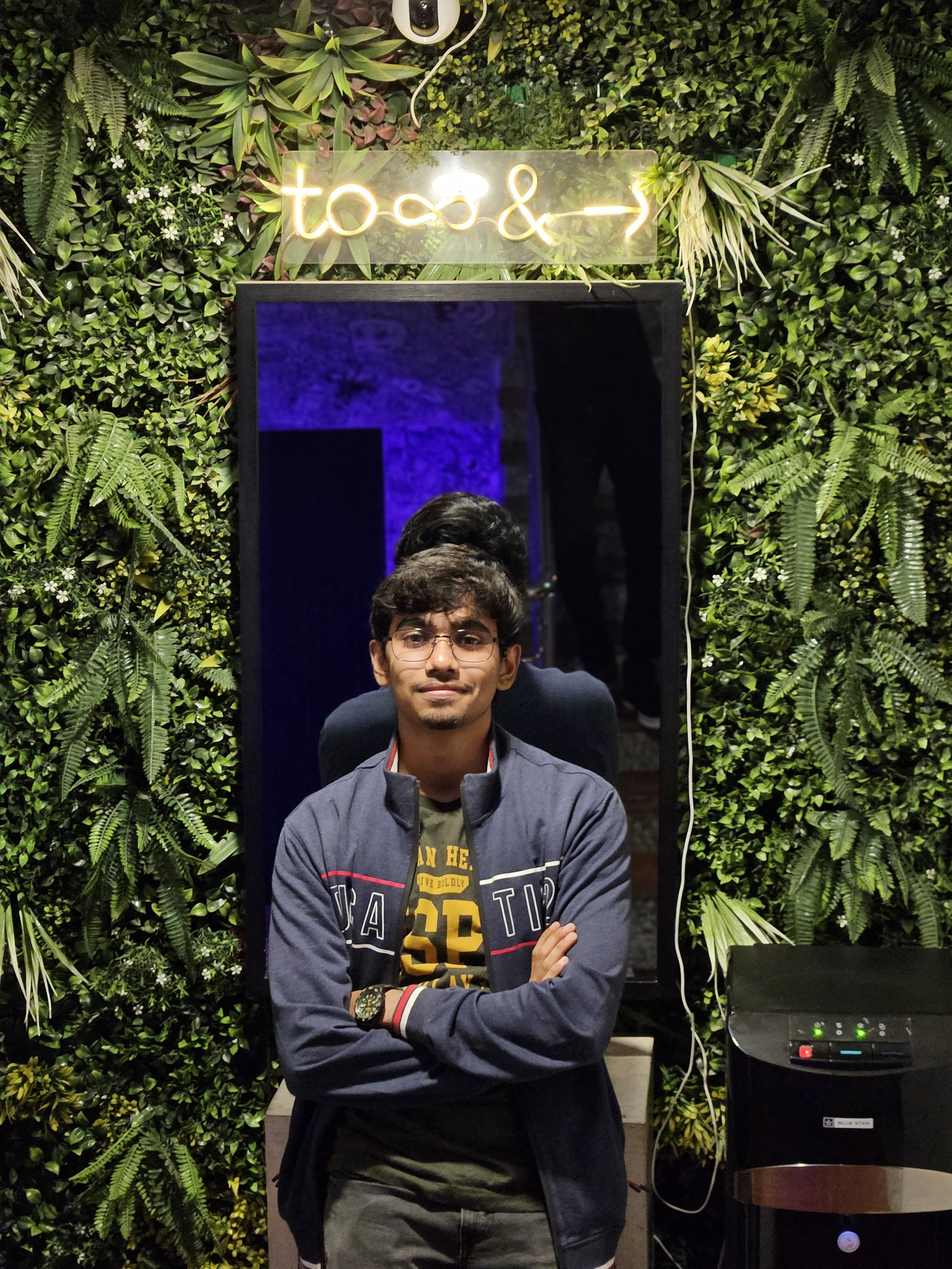
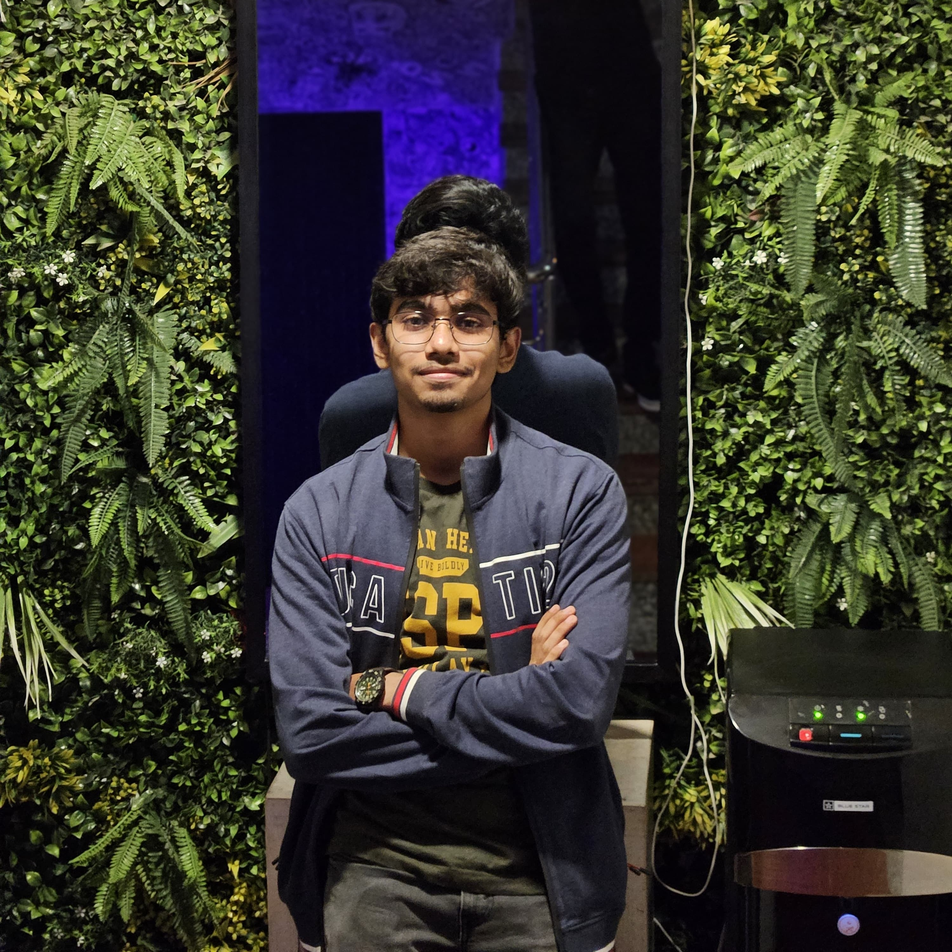
Update team images and improve dynamic loading
Replaced placeholder and outdated team member images with new files and updated references in core-team/page.tsx. Enhanced performance by dynamically importing Features and Earth components with loading states. Improved About dropdown in navbar for better UX with hover and delay logic.

diff --git a/components/navbar.tsx b/components/navbar.tsx
@@ -2,11 +2,13 @@
 
 import Image from "next/image"
 import Link from "next/link"
-import { useEffect, useState } from "react"
+import { useEffect, useRef, useState } from "react"
 
 export function Navbar() {
   const [isScrolled, setIsScrolled] = useState(false)
   const [isMobileMenuOpen, setIsMobileMenuOpen] = useState(false)
+  const [isAboutOpen, setIsAboutOpen] = useState(false)
+  const aboutCloseTimerRef = useRef<number | null>(null)
 
   useEffect(() => {
     const root = window.document.documentElement
@@ -18,6 +20,14 @@ export function Navbar() {
     const handleScroll = () => setIsScrolled(window.scrollY > 100)
     window.addEventListener("scroll", handleScroll)
     return () => window.removeEventListener("scroll", handleScroll)
+  }, [])
+
+  useEffect(() => {
+    return () => {
+      if (aboutCloseTimerRef.current) {
+        clearTimeout(aboutCloseTimerRef.current)
+      }
+    }
   }, [])
 
   const scrollToTop = () => window.scrollTo({ top: 0, behavior: "smooth" })
@@ -51,39 +61,53 @@ export function Navbar() {
           <a href="/#testimonials" className="relative px-4 py-2 text-muted-foreground hover:text-foreground transition-colors cursor-pointer">
             <span className="relative z-20">Testimonials</span>
           </a>
-          <div className="relative group">
-            <button className="relative flex items-center gap-1 px-4 py-2 text-muted-foreground hover:text-foreground transition-colors cursor-pointer">
-              <span className="relative z-20">About</span>
-              <svg
-                className="size-4 text-muted-foreground transition-transform duration-200 group-hover:rotate-180"
-                viewBox="0 0 24 24"
-                fill="none"
-                stroke="currentColor"
-                strokeWidth="2"
-                strokeLinecap="round"
-                strokeLinejoin="round"
-                aria-hidden="true"
-              >
-                <path d="m6 9 6 6 6-6" />
-              </svg>
-            </button>
-            <div className="pointer-events-none absolute left-0 top-full mt-2 w-[220px] rounded-2xl border border-border/60 bg-background/95 backdrop-blur-xl shadow-2xl ring-1 ring-border/40 opacity-0 translate-y-1 scale-95 transition-all duration-200 group-hover:opacity-100 group-hover:translate-y-0 group-hover:scale-100 group-hover:pointer-events-auto">
-              <div className="p-2">
-                <Link href="/core-team" className="block rounded-lg px-3 py-2 hover:bg-background/70 hover:text-foreground transition-colors">
-                  <div className="flex items-center gap-2">
-                    <span className="text-sm font-medium">Team</span>
-                    <span className="ml-auto text-xs text-muted-foreground">Meet us</span>
-                  </div>
-                </Link>
-                <Link href="/#faq" className="mt-1 block rounded-lg px-3 py-2 hover:bg-background/70 hover:text-foreground transition-colors">
-                  <div className="flex items-center gap-2">
-                    <span className="text-sm font-medium">FAQ</span>
-                    <span className="ml-auto text-xs text-muted-foreground">Get answers</span>
-                  </div>
-                </Link>
-              </div>
-            </div>
-          </div>
+           <div
+             className="relative"
+             onMouseEnter={() => {
+               if (aboutCloseTimerRef.current) clearTimeout(aboutCloseTimerRef.current)
+               setIsAboutOpen(true)
+             }}
+             onMouseLeave={() => {
+               if (aboutCloseTimerRef.current) clearTimeout(aboutCloseTimerRef.current)
+               aboutCloseTimerRef.current = window.setTimeout(() => setIsAboutOpen(false), 1000)
+             }}
+           >
+             <button className="relative flex items-center gap-1 px-4 py-2 text-muted-foreground hover:text-foreground transition-colors cursor-pointer">
+               <span className="relative z-20">About</span>
+               <svg
+                 className={`size-4 text-muted-foreground transition-transform duration-200 ${isAboutOpen ? "rotate-180" : ""}`}
+                 viewBox="0 0 24 24"
+                 fill="none"
+                 stroke="currentColor"
+                 strokeWidth="2"
+                 strokeLinecap="round"
+                 strokeLinejoin="round"
+                 aria-hidden="true"
+               >
+                 <path d="m6 9 6 6 6-6" />
+               </svg>
+             </button>
+             <div
+               className={`absolute left-0 top-full mt-2 w-[220px] rounded-2xl border border-border/60 bg-background/95 backdrop-blur-xl shadow-2xl ring-1 ring-border/40 transition-all duration-200 ${
+                 isAboutOpen ? "opacity-100 translate-y-0 scale-100 pointer-events-auto" : "opacity-0 translate-y-1 scale-95 pointer-events-none"
+               }`}
+             >
+               <div className="p-2">
+                 <Link href="/core-team" className="block rounded-lg px-3 py-2 hover:bg-background/70 hover:text-foreground transition-colors">
+                   <div className="flex items-center gap-2">
+                     <span className="text-sm font-medium">Team</span>
+                     <span className="ml-auto text-xs text-muted-foreground">Meet us</span>
+                   </div>
+                 </Link>
+                 <Link href="/#faq" className="mt-1 block rounded-lg px-3 py-2 hover:bg-background/70 hover:text-foreground transition-colors">
+                   <div className="flex items-center gap-2">
+                     <span className="text-sm font-medium">FAQ</span>
+                     <span className="ml-auto text-xs text-muted-foreground">Get answers</span>
+                   </div>
+                 </Link>
+               </div>
+             </div>
+           </div>
         </div>
 
         <div className="flex items-center gap-4">

diff --git a/app/core-team/page.tsx b/app/core-team/page.tsx
@@ -25,7 +25,7 @@ const TEAM_MEMBERS: TeamMember[] = [
     socials: {
       linkedin: "https://www.linkedin.com/in/ritam-rao-86503a2b6",
       github: "https://github.com/RitamRoa",
-      instagram: "https://www.instagram.com/ritam.rao",
+      instagram: "https://www.instagram.com/ritam.roa",
     },
   },
   {
@@ -40,7 +40,7 @@ const TEAM_MEMBERS: TeamMember[] = [
   {
     name: "Sharadh Naidu",
     role: "Technical Lead",
-    imageSrc: "/sharadh.png",
+    imageSrc: "/sharadh.jpg",
     socials: {
       linkedin: "https://www.linkedin.com/in/sharadh-naidu-72259a32b/",
       github: "https://github.com/SharadhNaidu",
@@ -66,7 +66,7 @@ const TEAM_MEMBERS: TeamMember[] = [
       instagram: "https://www.instagram.com/jack.k_28?igsh=MTZycms0NzNocjFxMA==",
     },
   },
-  { name: "Sharan Prabhu", role: "Media", imageSrc: "/placeholder-user.jpg" },
+  { name: "Sharan Prabhu", role: "Media", imageSrc: "/sharan.jpg" },
   {
     name: "B.Lalith Aditya",
     role: "Media - Cinematography Lead",
@@ -101,7 +101,14 @@ const TEAM_MEMBERS: TeamMember[] = [
       github: "https://github.com/nomi-26/",
     },
   },
-  { name: "Pranav Krishna", role: "Tech", imageSrc: "/placeholder-user.jpg" },
+  {
+    name: "Pranav Krishna",
+    role: "Tech",
+    imageSrc: "/pranav,jpg.jpg",
+    socials: {
+      linkedin: "https://www.linkedin.com/in/pranav-prasanna-krishna-97033832b",
+    },
+  },
 ]
 
 const ADVISORS: TeamMember[] = [
@@ -130,9 +137,8 @@ const ADVISORS: TeamMember[] = [
     role: "Content Advisor",
     imageSrc: "/harsha.jpg",
     socials: {
-      linkedin: "https://linkedin.com/in/sushanth-harsha-9344a0220",
+      linkedin: "https://www.linkedin.com/in/sushanth-h-9344a0220/",
       github: "https://github.com/SushanthHarsha/",
-      instagram: "https://www.instagram.com/_agnivarcas/",
     },
   },
   {
@@ -150,9 +156,9 @@ const ADVISORS: TeamMember[] = [
     role: "Technical Advisor",
     imageSrc: "/Pushan.jpg",
     socials: {
-      linkedin: "https://www.linkedin.com/in/pushan-t/",
-      github: "https://github.com/PushanT",
-      instagram: "https://www.instagram.com/_pushan_t/",
+      linkedin: "https://www.linkedin.com/in/pushant/",
+      github: "https://github.com/Pushan2005",
+      instagram: "https://www.instagram.com/pushan_fillertext",
     },
   },
 ]

diff --git a/components/features.tsx b/components/features.tsx
@@ -3,7 +3,8 @@
 import type React from "react"
 
 import { useTheme } from "next-themes"
-import Earth from "./ui/globe"
+import dynamic from "next/dynamic"
+const Earth = dynamic(() => import("./ui/globe"), { ssr: false })
 import ScrambleHover from "./ui/scramble"
 import { FollowerPointerCard } from "./ui/following-pointer"
 import { motion, useInView } from "framer-motion"
@@ -338,7 +339,11 @@ export default function Features() {
                           <div className="bg-secondary/20 h-[400px] w-[400px] animate-pulse rounded-full"></div>
                         }
                       >
-                        <Earth baseColor={baseColor} markerColor={[0, 0, 0]} glowColor={glowColor} dark={dark} />
+                        {isInView ? (
+                          <Earth baseColor={baseColor} markerColor={[0, 0, 0]} glowColor={glowColor} dark={dark} />
+                        ) : (
+                          <div className="bg-secondary/20 h-[400px] w-[400px] rounded-full" />
+                        )}
                       </Suspense>
                     </div>
                   </div>

diff --git a/app/page.tsx b/app/page.tsx
@@ -2,7 +2,17 @@
 import { useState, useEffect } from "react"
 import Image from "next/image"
 import Hero from "@/components/home/hero"
-import Features from "@/components/features"
+import dynamic from "next/dynamic"
+const Features = dynamic(() => import("@/components/features"), {
+  ssr: false,
+  loading: () => (
+    <section className="relative py-12 sm:py-24 md:py-32">
+      <div className="container mx-auto">
+        <div className="h-72 w-full rounded-2xl border border-border/40 bg-background/40 animate-pulse" />
+      </div>
+    </section>
+  ),
+})
 import { TestimonialsSection } from "@/components/testimonials"
 import { NewReleasePromo } from "@/components/new-release-promo"
 import { FAQSection } from "@/components/faq-section"
